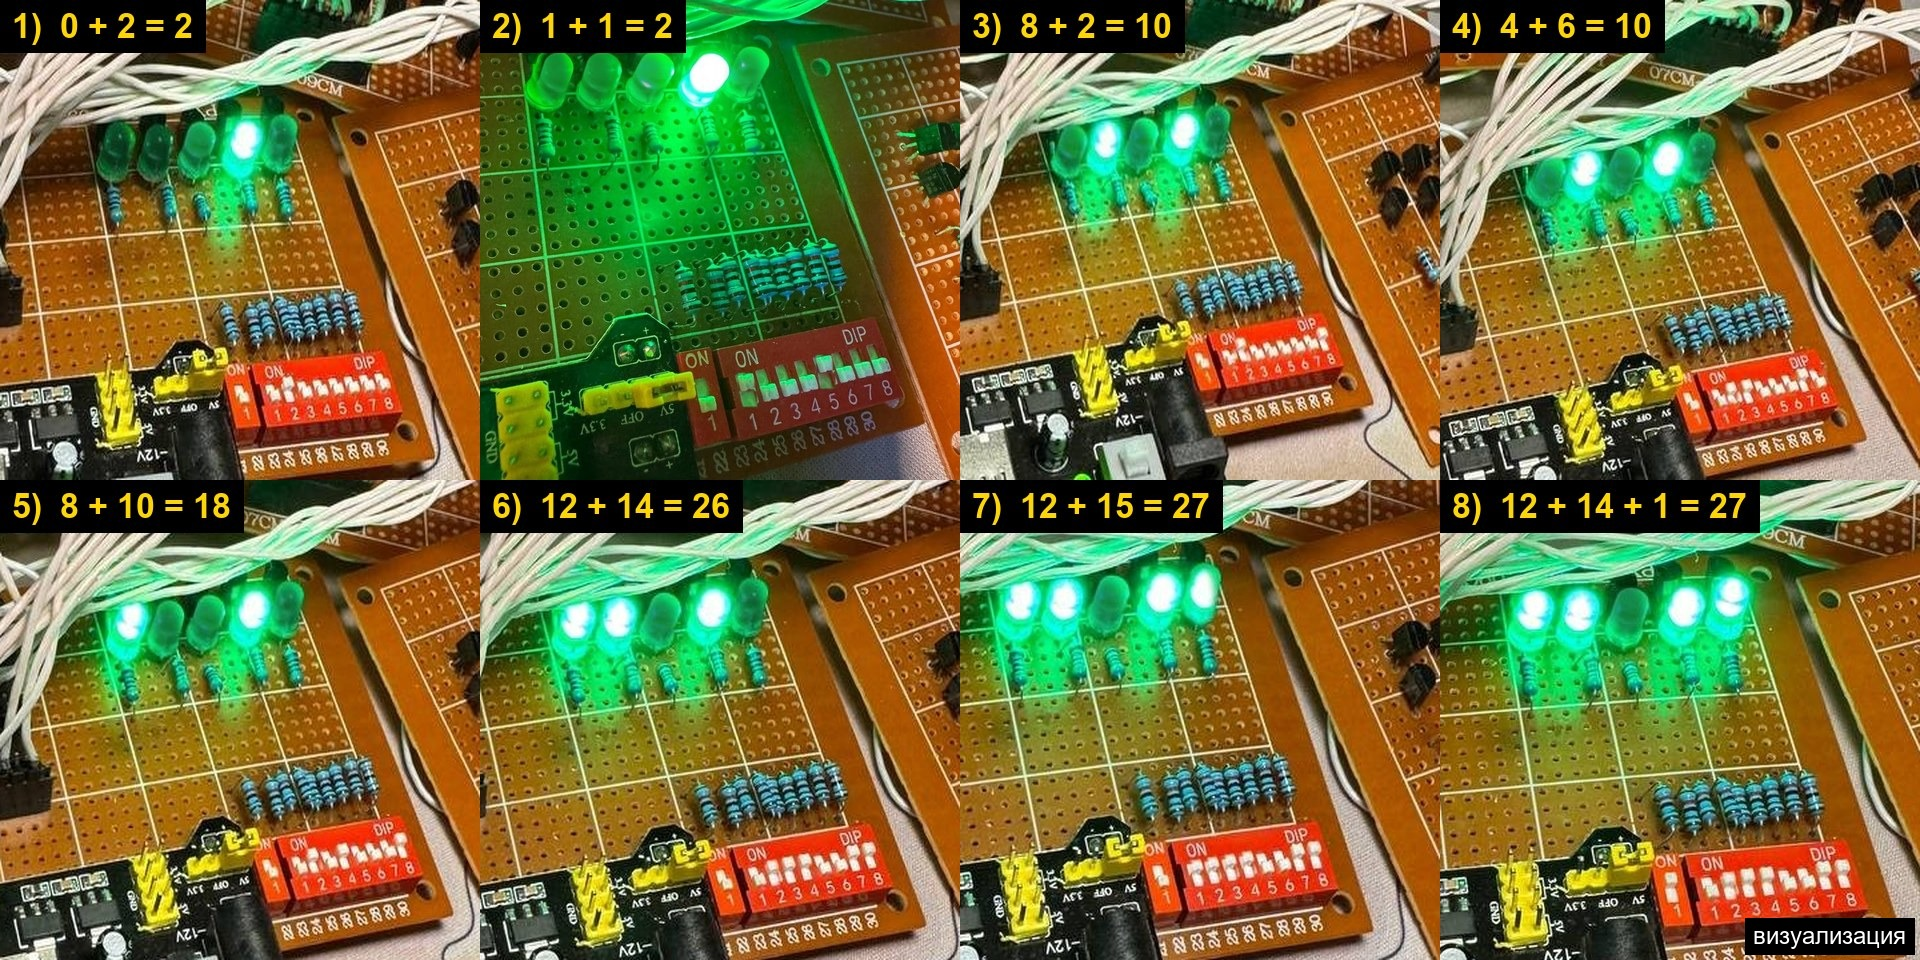
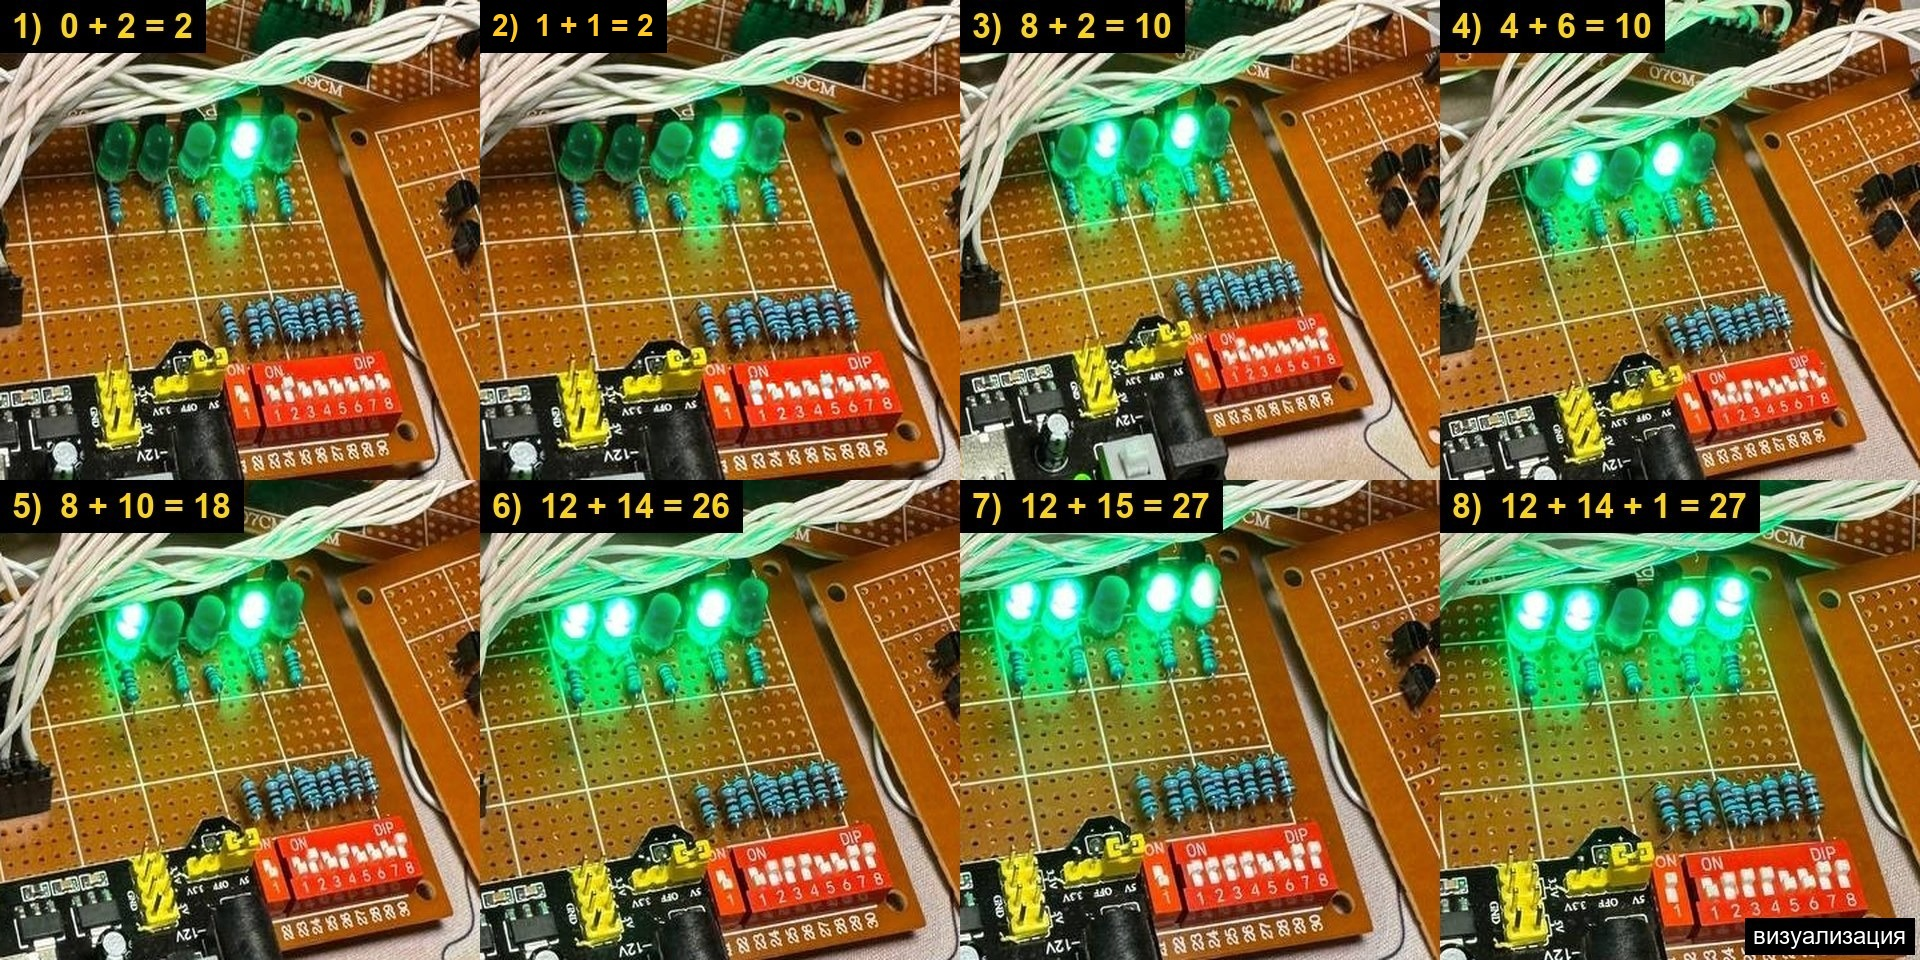
ДЗ 2: тест 1 + 1 = 2 в общем ракурсе и разбор с подписями

diff --git a/README.md b/README.md
@@ -26,12 +26,16 @@
 
 ### Тесты
 
+Разбор одного теста, 1 + 1 = 2: какой рычажок за что отвечает и какие светодиоды горят.
+
+<img src="homework2/Results/test2_explained.jpg" width="60%">
+
 ![Тесты](homework2/Results/tests.jpg)
 
 | № | A | B | Cin | сумма | светодиоды Cout S3 S2 S1 S0 | фото |
 |---|---|---|---|---|---|---|
 | 1 | 0000 (0) | 0010 (2) | 0 | 2 | 0 0010 | [test1](homework2/Results/test1.jpg) |
-| 2 | 0001 (1) | 0001 (1) | 0 | 2 | 0 0010 | [test2](homework2/Results/test2.jpg) |
+| 2 | 0001 (1) | 0001 (1) | 0 | 2 | 0 0010 | [test2](homework2/Results/test2.jpg), [крупно](homework2/Results/test2_close.jpg) |
 | 3 | 1000 (8) | 0010 (2) | 0 | 10 | 0 1010 | [test3](homework2/Results/test3.jpg) |
 | 4 | 0100 (4) | 0110 (6) | 0 | 10 | 0 1010 | [test4](homework2/Results/test4.jpg) |
 | 5 | 1000 (8) | 1010 (10) | 0 | 18 | 1 0010 | [test5](homework2/Results/test5.jpg) |

diff --git a/homework2/README.md b/homework2/README.md
@@ -26,12 +26,16 @@
 
 ### Тесты
 
+Разбор одного теста, 1 + 1 = 2: какой рычажок за что отвечает и какие светодиоды горят.
+
+<img src="Results/test2_explained.jpg" width="60%">
+
 ![Тесты](Results/tests.jpg)
 
 | № | A | B | Cin | сумма | светодиоды Cout S3 S2 S1 S0 | фото |
 |---|---|---|---|---|---|---|
 | 1 | 0000 (0) | 0010 (2) | 0 | 2 | 0 0010 | [test1](Results/test1.jpg) |
-| 2 | 0001 (1) | 0001 (1) | 0 | 2 | 0 0010 | [test2](Results/test2.jpg) |
+| 2 | 0001 (1) | 0001 (1) | 0 | 2 | 0 0010 | [test2](Results/test2.jpg), [крупно](Results/test2_close.jpg) |
 | 3 | 1000 (8) | 0010 (2) | 0 | 10 | 0 1010 | [test3](Results/test3.jpg) |
 | 4 | 0100 (4) | 0110 (6) | 0 | 10 | 0 1010 | [test4](Results/test4.jpg) |
 | 5 | 1000 (8) | 1010 (10) | 0 | 18 | 1 0010 | [test5](Results/test5.jpg) |
